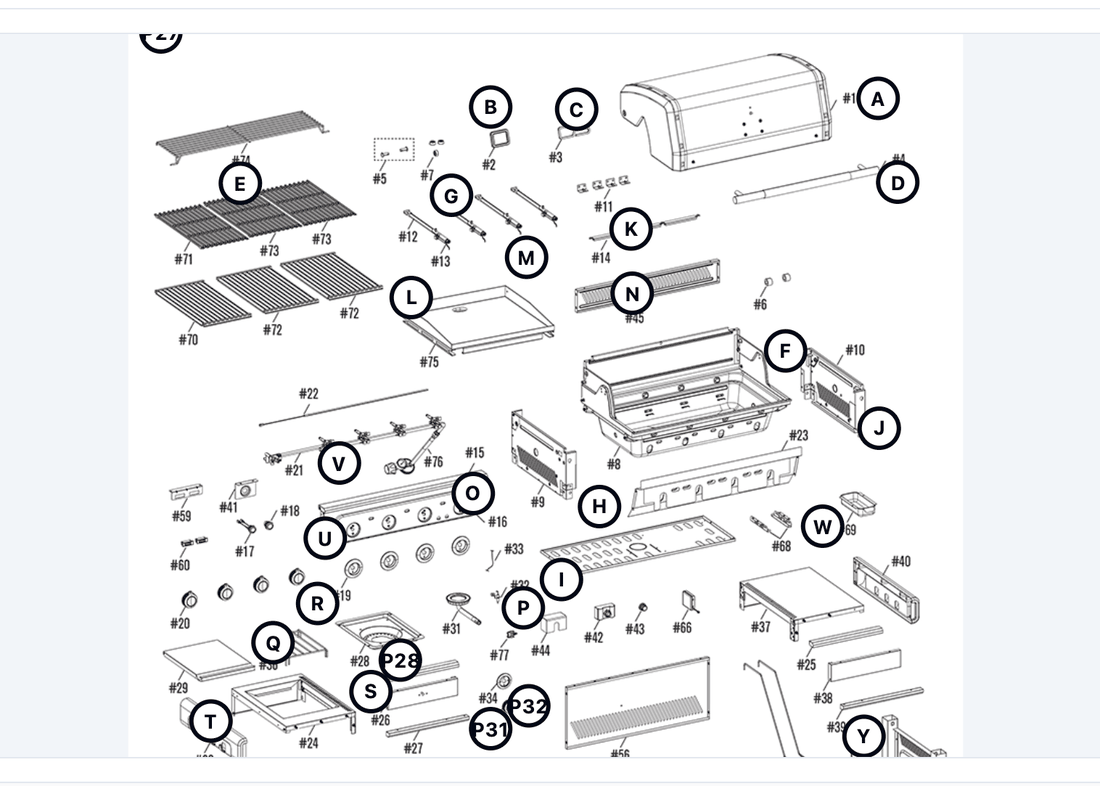
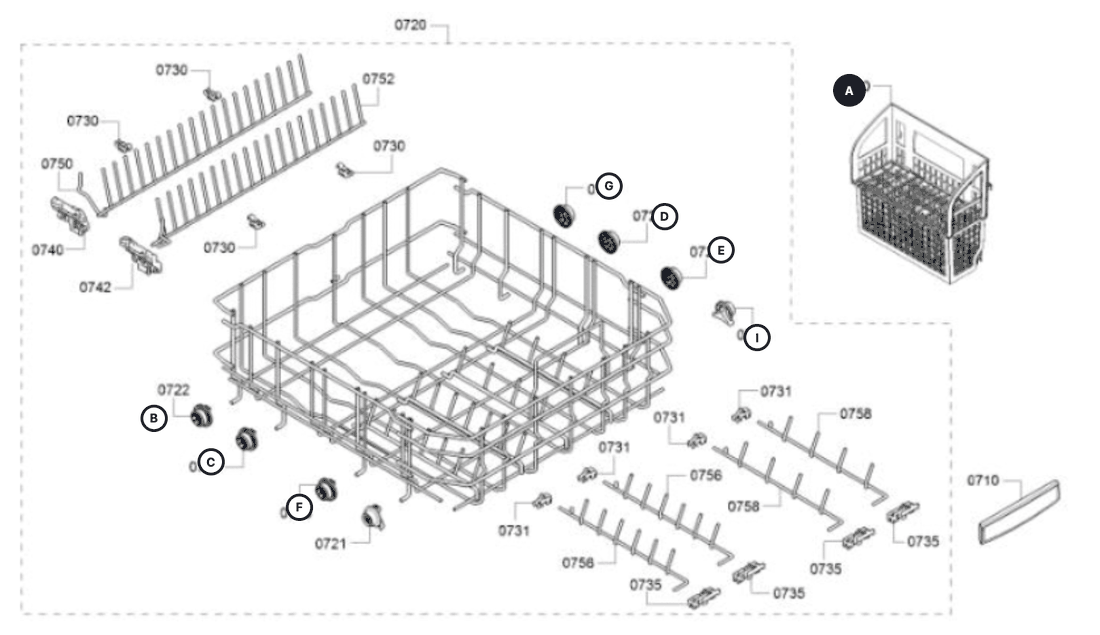
Use the dish rack schematic in the hero

diff --git a/index.html b/index.html
@@ -69,7 +69,7 @@
       <span class="sr-only">Screenshot of a grill parts diagram with labelled component markers.</span>
       <div class="schematic-preview" aria-hidden="true">
         <div class="schematic-img-placeholder">
-          <img src="images/schematic-hero.png" alt="" width="1100" height="786">
+          <img src="images/schematic-hero.png" alt="" width="1100" height="635">
         </div>
       </div>
     </div>
